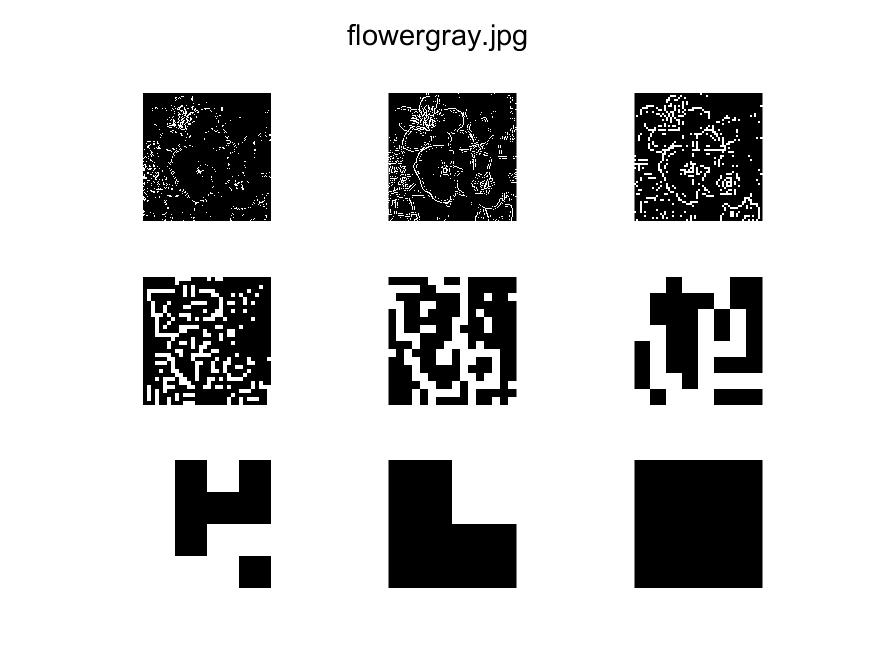
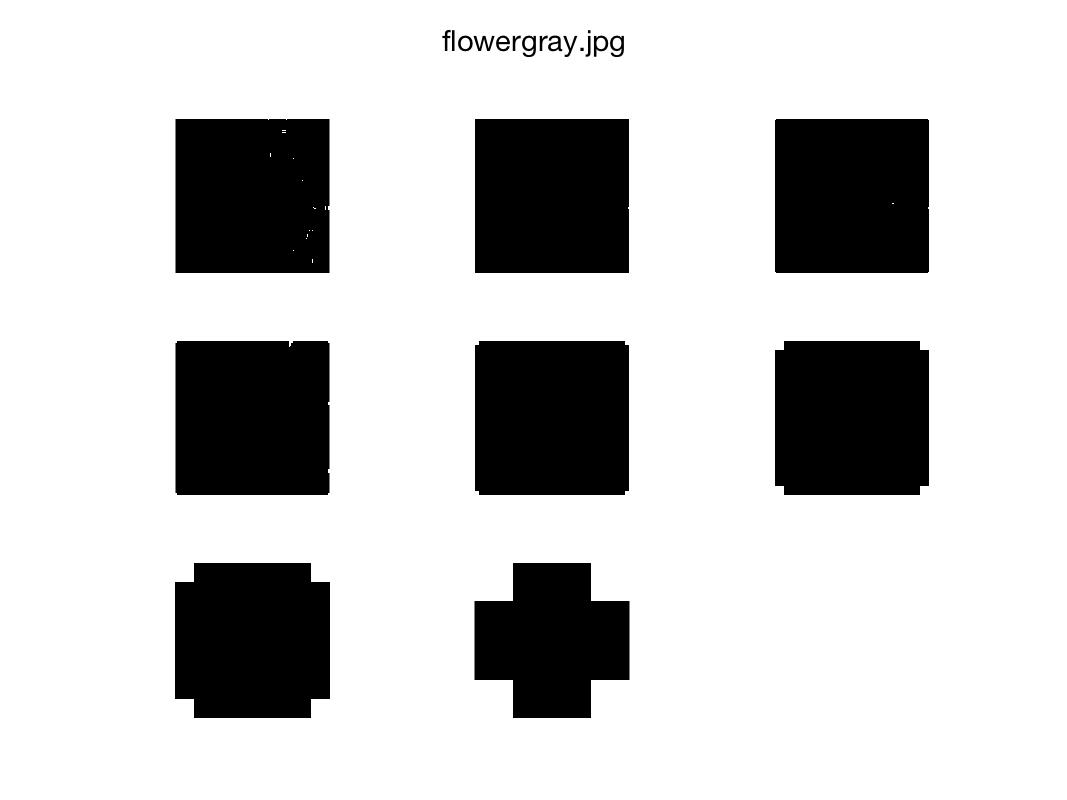
last updated

diff --git a/HW1/other_funcs/gpyramid.m b/HW1/other_funcs/gpyramid.m
@@ -1,43 +1,38 @@
-function [subsample, blur] = gpyramid(I, p)
+function [subsample, original] = gpyramid(I, p)
     h = fspecial('average', [2, 2]);
     img = I;
     sz = size(I);
-    z = sz(1);
+    sz = sz(1);
     N = log2(sz(1));
-    blur = {};
+    original = {};
     subsample = {};
 
     f = figure;
     a = subplot(3, 3, 1);
     imshow(img);
     subsample{end + 1} = img;
+    original{end + 1} = img;
     
     for i = 1:N
-        img = cat(2,img,img(:, sz(1)));
-        img = cat(1,img,img(sz(1), :));
+        
+        img = padarray(img, [1, 1], 'replicate');
         img = imfilter(img, h, 'conv');
-        v = [1:sz(1)];        
+        v = [2:sz+1];        
         img = img(v, v);
         
-        blur{end + 1} = img;
+        
         v = 1:2:sz(1);
         img = img(v, v);
         subsample{end + 1} = img;
         sz = size(img);
-        if sz(1) > 1
-            [X, Y] = meshgrid(1:sz(1));
-            [Xq, Yq] = meshgrid(1:((sz(1) - 1.) / z):sz(1));
-            Xq = Xq(1:size(Xq) - 1, 1:size(Xq) - 1);
-            Yq = Yq(1:size(Yq) - 1, 1:size(Yq) - 1);
-            int = interp2(X, Y, img, Xq, Yq);
-            a = subplot(3, 3, i + 1);
-            imshow(int);
-        else
-            % Interpolation function does not work for single pixel
-            int=imresize(img, [256, 256], 'bilinear');
-            a = subplot(3, 3, i + 1);
-            imshow(int);
-        end
+        sz = sz(1);
+        % Interpolation function does not work for single pixel
+        int=imresize(img, [256, 256], 'bilinear');
+        a = subplot(3, 3, i + 1);
+        imshow(int);
+        
+        original{end + 1} = int;
+
     end
     suptitle(p);
 end

diff --git a/HW1/part1234.m b/HW1/part1234.m
@@ -5,28 +5,28 @@ function original = part0(img_path)
     addpath('other_funcs');
     filenames = {'CARTOON.jpg', 'flowergray.jpg', 'kitty.jpg', 'polarcities.jpg', 'text.jpg'};
 
-    thresh = {0.3, 0.1, 0.1, 0.2, 0.2};
+    thresh = {0.1, 0.02, 0.01, 0.00001, 0.1};
     
     lpyramids = {};
     
-    for i = 1:length(original)
+    for i =1:5 %length(original)
         img = original{i};
         
-        [subsamples, blurs] = gpyramid(img, filenames{i});
+        [subsamples, org] = gpyramid(img, filenames{i});
                
-        lpy = lpyramid(subsamples, blurs, filenames{i});
+        lpy = lpyramid(org, filenames{i});
         lpyramids{end+1} = lpy;      
-        
-        edge_detection(subsamples, thresh{i}, filenames{i});
+%         
+        edge_detection(org, thresh{i}, filenames{i});
     end
     
-    pairs = {[1, 2], [3, 4], [1, 5]};
-    length(pairs)
-    for i = 1:length(pairs)
-        pyramids = pairs{i}
-        lpy1 = lpyramids{pyramids(1)};
-        lpy2 = lpyramids{pyramids(2)};
-        mulres_spine(lpy1, lpy2);
-    end
+%     pairs = {[1, 2], [3, 4], [1, 5]};
+%     length(pairs)
+%     for i = 1:length(pairs)
+%         pyramids = pairs{i}
+%         lpy1 = lpyramids{pyramids(1)};
+%         lpy2 = lpyramids{pyramids(2)};
+%         mulres_spine(lpy1, lpy2);
+%     end
 %     
 end

diff --git a/HW1/other_funcs/edge_detection.m b/HW1/other_funcs/edge_detection.m
@@ -1,29 +1,26 @@
 function edge_detection(Ps, thres, p)
 
     lap_ope = [-1/8 -1/8 -1/8; -1/8 1 -1/8; -1/8 -1/8 -1/8];
+    box_ope = [1/9 1/9 1/9; 1/9 1/9 1/9; 1/9 1/9 1/9];
     f = figure;
 
     for i=1:length(Ps)
         sz = size(Ps{i});
-        img = padarray(Ps{i}, [1, 1], 'replicate');
-        img = imfilter(img, lap_ope, 'same');
+        conved = padarray(Ps{i}, [1, 1], 'replicate');
+        conved = imfilter(conved, lap_ope, 'same');
         v = [2:sz(1)+1]; 
-
-
-        img = img(v, v);
+        conved = conved(v, v);
         
-        seg = img > 0;
+        seg = conved > 0;
         
-        pos_im = img .* (seg > 0);
+        zero_crossing = zeroCross(seg);
         
+        local_var = stdfilt(Ps{i});
         
-        diff = NNpadding(pos_im);
-         
-        bindiff = seg .* (diff > 0);
+        outstanding = local_var > 0.00001;
         
-        var = NNpadding(pos_im);
-
-        edges = (1-bindiff) .* (var > thres);
+        edges = zero_crossing & local_var;
+        edges = uint8(255 - mat2gray(outstanding) * 255);
         a = subplot(3, 3, i);imshow(edges);
     end
     suptitle(p);

diff --git a/HW1/other_funcs/zeroCross.m b/HW1/other_funcs/zeroCross.m
@@ -1,0 +1,21 @@
+function zero_crossing = zeroCross(seg)
+    sz = size(seg);
+    sz = sz(1);
+    
+    input = padarray(seg, [1, 1], 'replicate');
+    
+    diff1 = abs(input - circshift(input, [-1, -1]));
+    diff2 = abs(input - circshift(input, [-1,  0]));
+    diff3 = abs(input - circshift(input, [-1,  1]));
+    diff4 = abs(input - circshift(input, [ 0, -1]));
+    diff5 = abs(input - circshift(input, [ 0,  1]));
+    diff6 = abs(input - circshift(input, [ 1, -1]));
+    diff7 = abs(input - circshift(input, [ 1,  0]));
+    diff8 = abs(input - circshift(input, [ 1,  1]));
+    
+    sumdiff = diff1 + diff2 + diff3 + diff4 + diff5 + diff6 + diff7 + diff8;
+    v = [2:sz(1)+1]; 
+    sumdiff = sumdiff(v, v);
+    zero_crossing = sumdiff > 0;
+    
+end

diff --git a/HW1/other_funcs/lpyramid.m b/HW1/other_funcs/lpyramid.m
@@ -1,15 +1,15 @@
-function lpy = lpyramid(subsamples, blurs, p)
-    size(subsamples)
-    size(blurs)
+function lpy = lpyramid(original, p)
     f = figure;
     lpy = {};
-    for i = 1:length(blurs)
-        
-        %for j = 1:length(blurs{i})
-        sz = size(blurs{i});
-        a = subplot(2, 4, i);
-        gray = mat2gray(blurs{i} - subsamples{i});
+    
+    for i = 1:length(original)-1
+        a = subplot(3, 3, i);
+        gray = mat2gray(original{i} - original{i+1});
         lpy{end+1} = gray;
-        imshow(gray);
+        imshow(uint8(gray*225));
     end
+    i = length(original);
+    lpy{end+1} = original{i};
+    a = subplot(3, 3, i);
+    imshow(uint8(original{i}*225));
 end      
